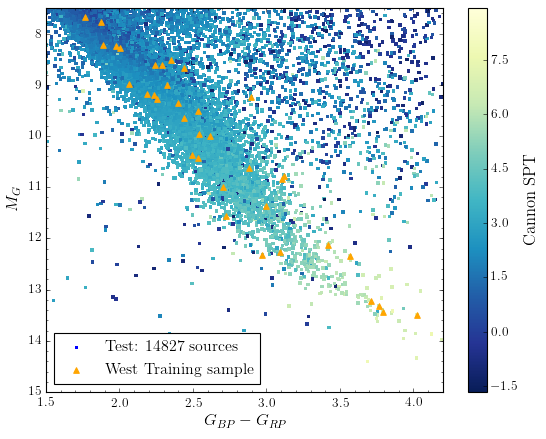
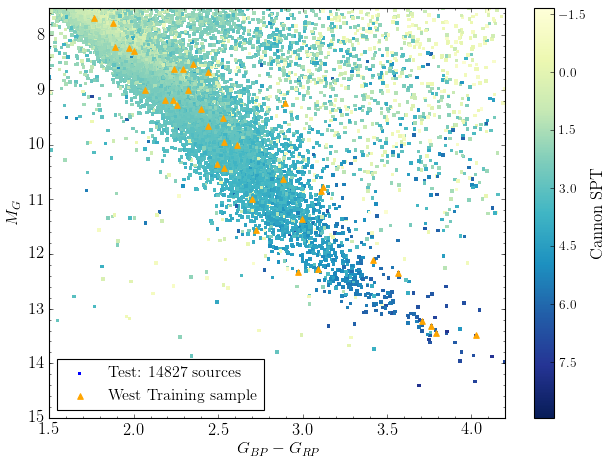
fix plot annoyances

diff --git a/paper/draft.tex b/paper/draft.tex
@@ -498,12 +498,12 @@ Figure \ref{fig:met_comp} shows that ASPCAP metallicities are systematically mor
 
 \begin{figure*}
 \begin{center}
-	\includegraphics[width=.45\linewidth]{figures/cmd_teff_full.png}
-	\includegraphics[width=.48\linewidth]{figures/cmd_teff_safe.png} \\
-	\includegraphics[width=.45\linewidth]{figures/cmd_feh_full.png}
-	\includegraphics[width=.48\linewidth]{figures/cmd_feh_safe.png} \\
-	\includegraphics[width=.45\linewidth]{figures/cmd_spt_full.png}
-	\includegraphics[width=.48\linewidth]{figures/cmd_spt_safe.png}
+	\includegraphics[width=.47\linewidth]{figures/cmd_teff_full.png}
+	\includegraphics[width=.47\linewidth]{figures/cmd_teff_safe.png} \\
+	\includegraphics[width=.47\linewidth]{figures/cmd_feh_full.png}
+	\includegraphics[width=.47\linewidth]{figures/cmd_feh_safe.png} \\
+	\includegraphics[width=.47\linewidth]{figures/cmd_spt_full.png}
+	\includegraphics[width=.47\linewidth]{figures/cmd_spt_safe.png}
 	\caption{Full sample of 14,827 M dwarfs colored by \cannon\ labels before selection (left) and final sample selection of 5,875 M dwarfs after applying selection criteria described in Section \ref{subsec:test_selection} (right), to reduce contamination from sources with that are not similar to the training sample (not single, main-sequence M stars, such as pre-main sequence, spectroscopic binaries, and K dwarfs). Overplotted with orange triangles are the M15 and W11 training samples, for their respective \cannon\ test labels. Temperature gradient increases with decreasing color, spectral subtype increases with increasing color, and metallicity gradient increases perpendicularly up from the main sequence branch as expected. Deviations from these gradients seen at the upper slice of the main sequence is likely remaining contamination from the binary sequence.}
 	\label{fig:safe_selection}
 \end{center}
